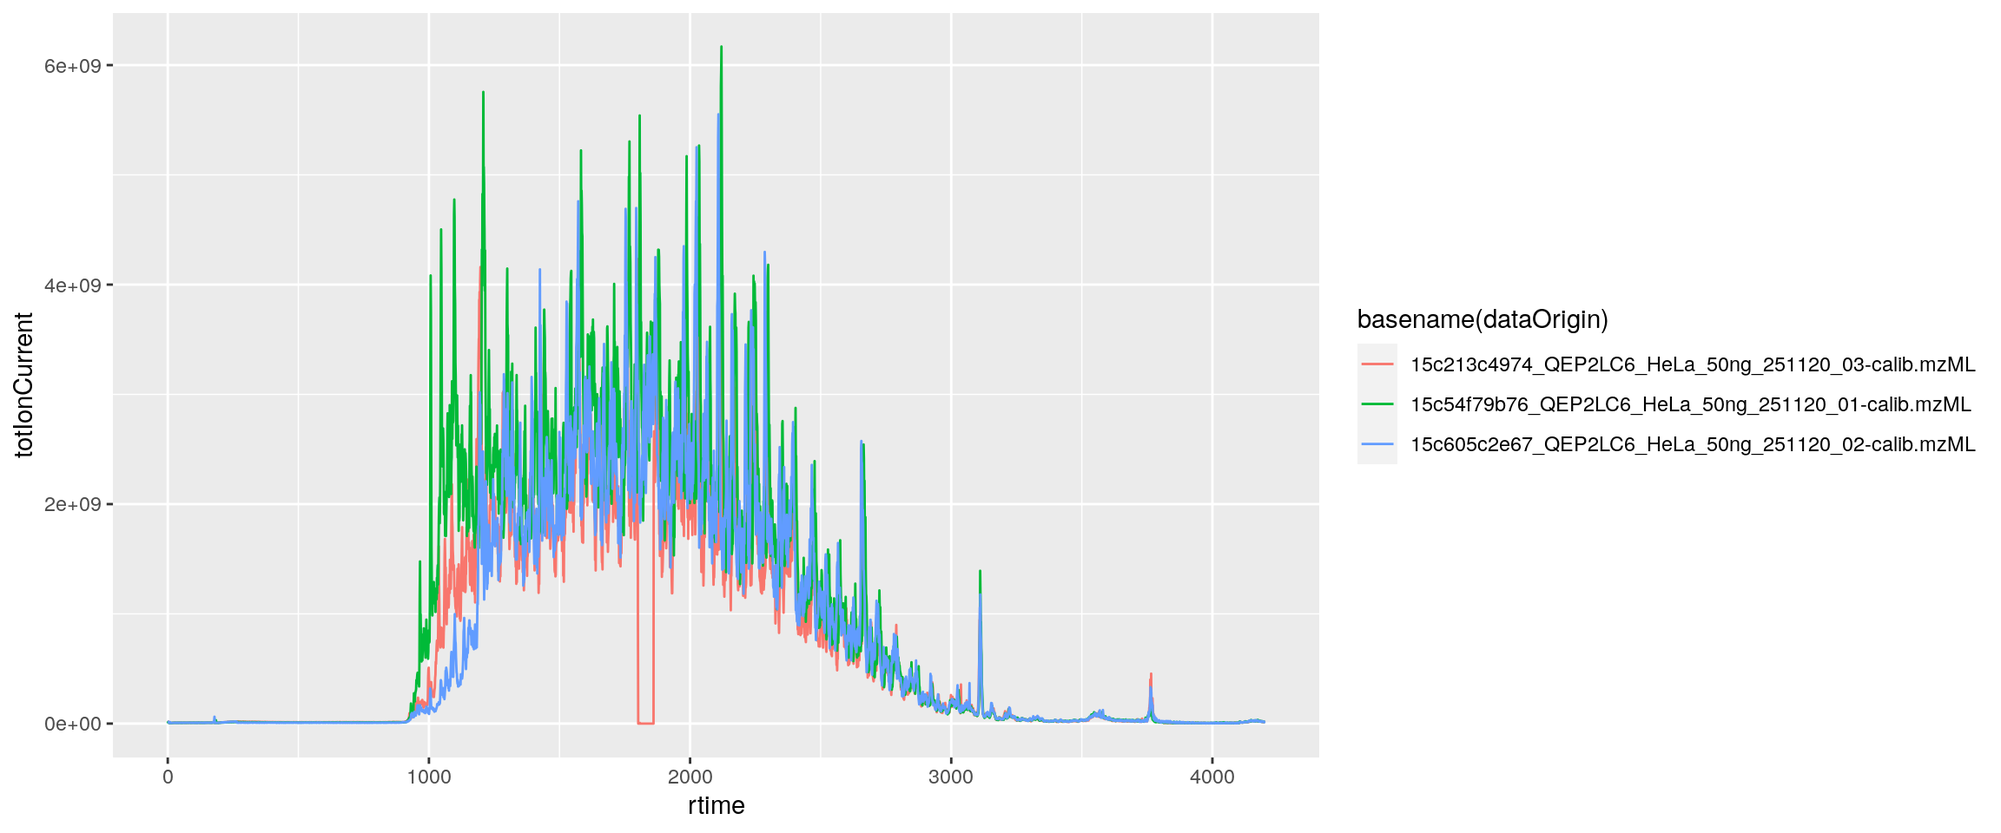
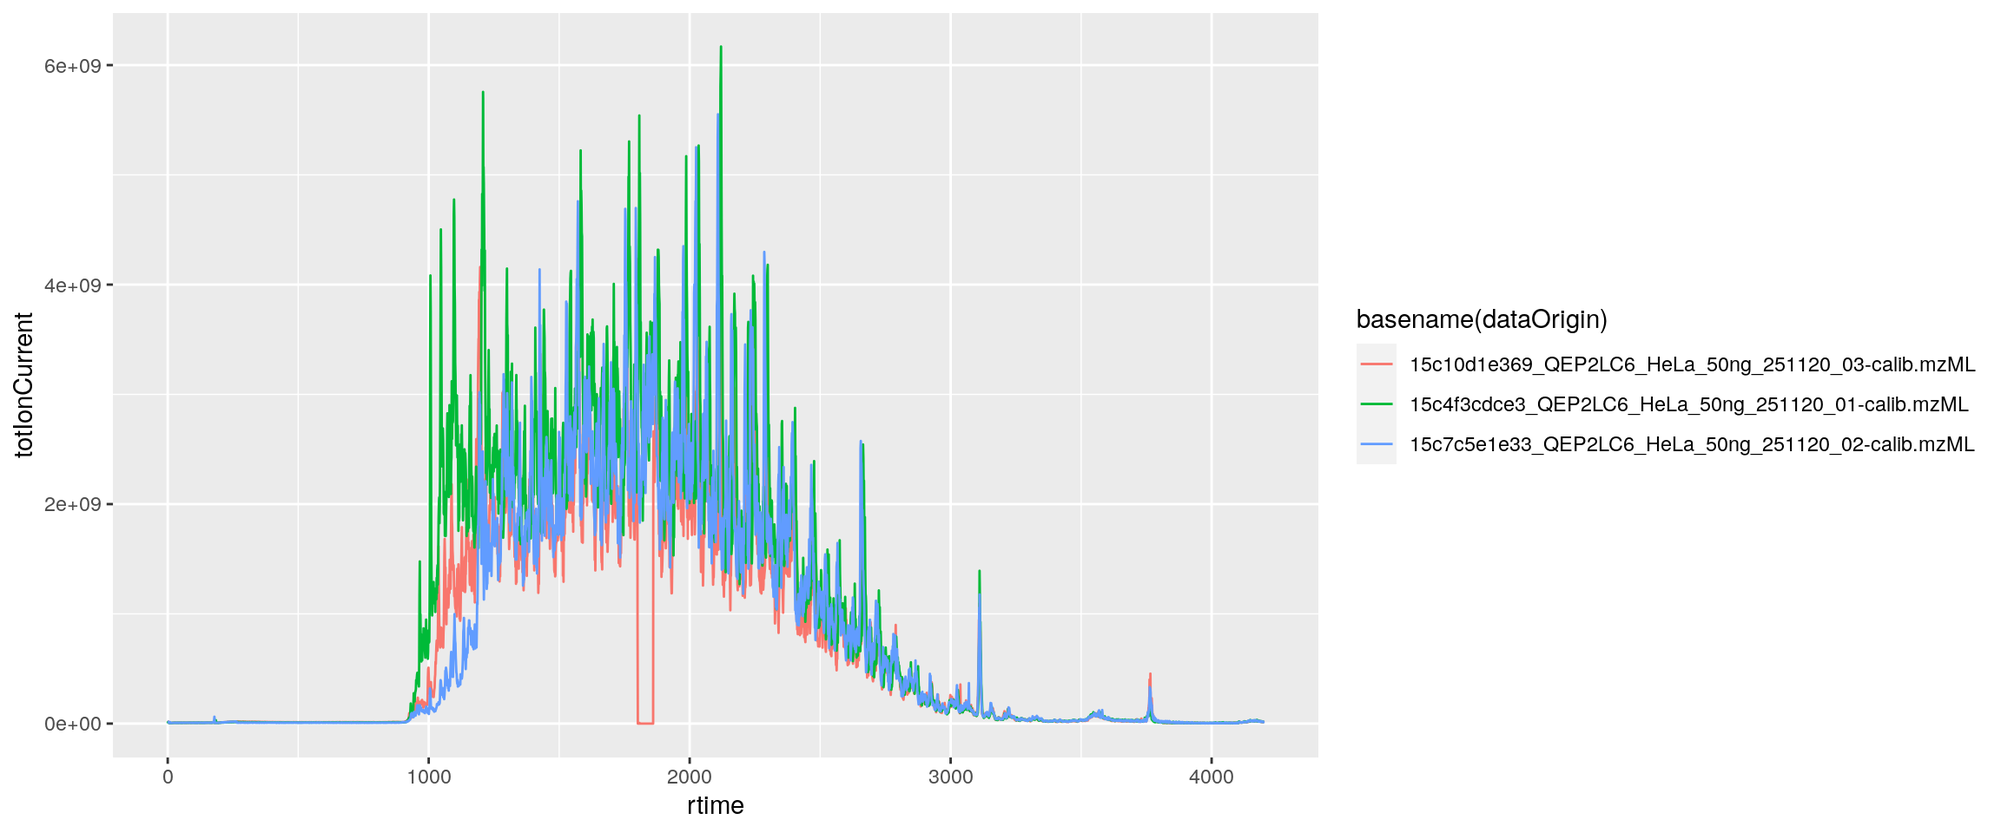
Deploying to gh-pages from @ js2264/R4MS@83e489c20091fc61f034502243b1299df74b7056 🚀

diff --git a/docs/devel/pages/20-id.html b/docs/devel/pages/20-id.html
@@ -709,7 +709,7 @@ Generating the <code>sp</code> object from scratch 👇
 <span><span class="co">##   ... 33 more variables/columns.</span></span>
 <span><span class="co">##  </span></span>
 <span><span class="co">##  file(s):</span></span>
-<span><span class="co">##  d17f90d691_TMT_Erwinia_1uLSike_Top10HCD_isol2_45stepped_60min_01-20141210.mzML</span></span></code><button title="Copy to Clipboard" class="code-copy-button"><i class="bi"></i></button></pre></div>
+<span><span class="co">##  d11fbf7e_TMT_Erwinia_1uLSike_Top10HCD_isol2_45stepped_60min_01-20141210.mzML</span></span></code><button title="Copy to Clipboard" class="code-copy-button"><i class="bi"></i></button></pre></div>
 </div>
 </div>
 </div>
@@ -1162,7 +1162,7 @@ Answer
 <span><span class="co">##   ... 68 more variables/columns.</span></span>
 <span><span class="co">##  </span></span>
 <span><span class="co">##  file(s):</span></span>
-<span><span class="co">##  d17f90d691_TMT_Erwinia_1uLSike_Top10HCD_isol2_45stepped_60min_01-20141210.mzML</span></span></code><button title="Copy to Clipboard" class="code-copy-button"><i class="bi"></i></button></pre></div>
+<span><span class="co">##  d11fbf7e_TMT_Erwinia_1uLSike_Top10HCD_isol2_45stepped_60min_01-20141210.mzML</span></span></code><button title="Copy to Clipboard" class="code-copy-button"><i class="bi"></i></button></pre></div>
 </div>
 </div>
 </div>
@@ -1334,9 +1334,9 @@ Answer
 <span><span class="co">##  Downloading QEP2LC6_HeLa_50ng_251120_01-calib.mzID.gz file.</span></span>
 <span><span class="co">##  Downloading QEP2LC6_HeLa_50ng_251120_02-calib.mzID.gz file.</span></span>
 <span><span class="co">##  Downloading QEP2LC6_HeLa_50ng_251120_03-calib.mzID.gz file.</span></span>
-<span><span class="co">##  [1] "/root/.cache/R/rpx/15c5733cbfc_QEP2LC6_HeLa_50ng_251120_01-calib.mzID.gz"</span></span>
-<span><span class="co">##  [2] "/root/.cache/R/rpx/15c55bc3e06_QEP2LC6_HeLa_50ng_251120_02-calib.mzID.gz"</span></span>
-<span><span class="co">##  [3] "/root/.cache/R/rpx/15c6c409123_QEP2LC6_HeLa_50ng_251120_03-calib.mzID.gz"</span></span>
+<span><span class="co">##  [1] "/root/.cache/R/rpx/15c54cb5110_QEP2LC6_HeLa_50ng_251120_01-calib.mzID.gz"</span></span>
+<span><span class="co">##  [2] "/root/.cache/R/rpx/15c16fe01de_QEP2LC6_HeLa_50ng_251120_02-calib.mzID.gz"</span></span>
+<span><span class="co">##  [3] "/root/.cache/R/rpx/15cac59a87_QEP2LC6_HeLa_50ng_251120_03-calib.mzID.gz"</span></span>
 <span><span class="op">(</span><span class="va">mzmls</span> <span class="op">&lt;-</span> <span class="fu"><a href="https://rdrr.io/pkg/rpx/man/PXDataset2.html">pxget</a></span><span class="op">(</span><span class="va">PXD022816</span>, <span class="fu"><a href="https://rdrr.io/r/base/grep.html">grep</a></span><span class="op">(</span><span class="st">"mzML"</span>, <span class="fu"><a href="https://rdrr.io/pkg/rpx/man/PXDataset2.html">pxfiles</a></span><span class="op">(</span><span class="va">PXD022816</span><span class="op">)</span><span class="op">)</span><span class="op">[</span><span class="fl">1</span><span class="op">:</span><span class="fl">3</span><span class="op">]</span><span class="op">)</span><span class="op">)</span></span>
 <span><span class="co">##  Project PXD022816 files (32):</span></span>
 <span><span class="co">##   [local]  QEP2LC6_HeLa_50ng_251120_01-calib.mzID.gz</span></span>
@@ -1353,9 +1353,9 @@ Answer
 <span><span class="co">##  Downloading QEP2LC6_HeLa_50ng_251120_01-calib.mzML file.</span></span>
 <span><span class="co">##  Downloading QEP2LC6_HeLa_50ng_251120_02-calib.mzML file.</span></span>
 <span><span class="co">##  Downloading QEP2LC6_HeLa_50ng_251120_03-calib.mzML file.</span></span>
-<span><span class="co">##  [1] "/root/.cache/R/rpx/15c54f79b76_QEP2LC6_HeLa_50ng_251120_01-calib.mzML"</span></span>
-<span><span class="co">##  [2] "/root/.cache/R/rpx/15c605c2e67_QEP2LC6_HeLa_50ng_251120_02-calib.mzML"</span></span>
-<span><span class="co">##  [3] "/root/.cache/R/rpx/15c213c4974_QEP2LC6_HeLa_50ng_251120_03-calib.mzML"</span></span></code><button title="Copy to Clipboard" class="code-copy-button"><i class="bi"></i></button></pre></div>
+<span><span class="co">##  [1] "/root/.cache/R/rpx/15c4f3cdce3_QEP2LC6_HeLa_50ng_251120_01-calib.mzML"</span></span>
+<span><span class="co">##  [2] "/root/.cache/R/rpx/15c7c5e1e33_QEP2LC6_HeLa_50ng_251120_02-calib.mzML"</span></span>
+<span><span class="co">##  [3] "/root/.cache/R/rpx/15c10d1e369_QEP2LC6_HeLa_50ng_251120_03-calib.mzML"</span></span></code><button title="Copy to Clipboard" class="code-copy-button"><i class="bi"></i></button></pre></div>
 </div>
 </div>
 </div>
@@ -1407,18 +1407,18 @@ Answer
 <span><span class="co">##   ... 33 more variables/columns.</span></span>
 <span><span class="co">##  </span></span>
 <span><span class="co">##  file(s):</span></span>
-<span><span class="co">##  15c54f79b76_QEP2LC6_HeLa_50ng_251120_01-calib.mzML</span></span>
-<span><span class="co">##  15c605c2e67_QEP2LC6_HeLa_50ng_251120_02-calib.mzML</span></span>
-<span><span class="co">##  15c213c4974_QEP2LC6_HeLa_50ng_251120_03-calib.mzML</span></span>
+<span><span class="co">##  15c4f3cdce3_QEP2LC6_HeLa_50ng_251120_01-calib.mzML</span></span>
+<span><span class="co">##  15c7c5e1e33_QEP2LC6_HeLa_50ng_251120_02-calib.mzML</span></span>
+<span><span class="co">##  15c10d1e369_QEP2LC6_HeLa_50ng_251120_03-calib.mzML</span></span>
 <span></span>
 <span><span class="co">## number of spectra per file</span></span>
 <span><span class="fu"><a href="https://rdrr.io/r/base/table.html">table</a></span><span class="op">(</span><span class="fu"><a href="https://rdrr.io/r/base/basename.html">basename</a></span><span class="op">(</span><span class="va">sp</span><span class="op">$</span><span class="va">dataOrigin</span><span class="op">)</span><span class="op">)</span></span>
 <span><span class="co">##  </span></span>
-<span><span class="co">##  15c213c4974_QEP2LC6_HeLa_50ng_251120_03-calib.mzML </span></span>
+<span><span class="co">##  15c10d1e369_QEP2LC6_HeLa_50ng_251120_03-calib.mzML </span></span>
 <span><span class="co">##                                               28740 </span></span>
-<span><span class="co">##  15c54f79b76_QEP2LC6_HeLa_50ng_251120_01-calib.mzML </span></span>
+<span><span class="co">##  15c4f3cdce3_QEP2LC6_HeLa_50ng_251120_01-calib.mzML </span></span>
 <span><span class="co">##                                               29575 </span></span>
-<span><span class="co">##  15c605c2e67_QEP2LC6_HeLa_50ng_251120_02-calib.mzML </span></span>
+<span><span class="co">##  15c7c5e1e33_QEP2LC6_HeLa_50ng_251120_02-calib.mzML </span></span>
 <span><span class="co">##                                               29332</span></span>
 <span></span>
 <span><span class="co">## all levels are centroided</span></span>
@@ -1455,11 +1455,11 @@ Answer
 <span><span class="co">## Number of PSMs per acquisition</span></span>
 <span><span class="fu"><a href="https://rdrr.io/r/base/table.html">table</a></span><span class="op">(</span><span class="va">id</span><span class="op">$</span><span class="va">idFile</span><span class="op">)</span></span>
 <span><span class="co">##  </span></span>
-<span><span class="co">##  15c55bc3e06_QEP2LC6_HeLa_50ng_251120_02-calib.mzID.gz </span></span>
+<span><span class="co">##  15c16fe01de_QEP2LC6_HeLa_50ng_251120_02-calib.mzID.gz </span></span>
 <span><span class="co">##                                                  25083 </span></span>
-<span><span class="co">##  15c5733cbfc_QEP2LC6_HeLa_50ng_251120_01-calib.mzID.gz </span></span>
+<span><span class="co">##  15c54cb5110_QEP2LC6_HeLa_50ng_251120_01-calib.mzID.gz </span></span>
 <span><span class="co">##                                                  25231 </span></span>
-<span><span class="co">##  15c6c409123_QEP2LC6_HeLa_50ng_251120_03-calib.mzID.gz </span></span>
+<span><span class="co">##   15cac59a87_QEP2LC6_HeLa_50ng_251120_03-calib.mzID.gz </span></span>
 <span><span class="co">##                                                  24436</span></span>
 <span></span>
 <span><span class="fu">tidyr</span><span class="fu">::</span><span class="fu"><a href="https://tibble.tidyverse.org/reference/as_tibble.html">as_tibble</a></span><span class="op">(</span><span class="va">id</span><span class="op">)</span> <span class="op">|&gt;</span> </span>
@@ -1605,7 +1605,7 @@ Answer
 <span><span class="co">##  77          2   3563.78     26314</span></span>
 <span><span class="co">##   ... 65 more variables/columns.</span></span>
 <span><span class="co">##  Processing:</span></span>
-<span><span class="co">##   Switch backend from MsBackendMzR to MsBackendDataFrame [Tue Nov 14 17:00:19 2023]</span></span>
+<span><span class="co">##   Switch backend from MsBackendMzR to MsBackendDataFrame [Tue Nov 14 18:48:23 2023]</span></span>
 <span></span>
 <span><span class="va">cmat</span> <span class="op">&lt;-</span> <span class="fu"><a href="https://rdrr.io/pkg/ProtGenerics/man/protgenerics.html">compareSpectra</a></span><span class="op">(</span><span class="va">sp_O43175</span><span class="op">)</span></span>
 <span><span class="fu"><a href="https://rdrr.io/r/base/colnames.html">rownames</a></span><span class="op">(</span><span class="va">cmat</span><span class="op">)</span> <span class="op">&lt;-</span></span>

diff --git a/docs/devel/pages/raw-ms-data.html b/docs/devel/pages/raw-ms-data.html
@@ -307,7 +307,7 @@ div.csl-indent {
 <span><span class="va">mzf</span> <span class="op">&lt;-</span> <span class="fu"><a href="https://rdrr.io/pkg/rpx/man/PXDataset2.html">pxget</a></span><span class="op">(</span><span class="va">px</span>, <span class="va">fn</span><span class="op">)</span></span>
 <span><span class="co">##  Loading TMT_Erwinia_1uLSike_Top10HCD_isol2_45stepped_60min_01-20141210.mzML from cache.</span></span>
 <span><span class="va">mzf</span></span>
-<span><span class="co">##  [1] "/root/.cache/R/rpx/d17f90d691_TMT_Erwinia_1uLSike_Top10HCD_isol2_45stepped_60min_01-20141210.mzML"</span></span>
+<span><span class="co">##  [1] "/root/.cache/R/rpx/d11fbf7e_TMT_Erwinia_1uLSike_Top10HCD_isol2_45stepped_60min_01-20141210.mzML"</span></span>
 <span><span class="va">sp</span> <span class="op">&lt;-</span> <span class="fu"><a href="https://rdrr.io/pkg/Spectra/man/Spectra.html">Spectra</a></span><span class="op">(</span><span class="va">mzf</span><span class="op">)</span></span>
 <span><span class="va">sp</span></span>
 <span><span class="co">##  MSn data (Spectra) with 7534 spectra in a MsBackendMzR backend:</span></span>
@@ -327,7 +327,7 @@ div.csl-indent {
 <span><span class="co">##   ... 33 more variables/columns.</span></span>
 <span><span class="co">##  </span></span>
 <span><span class="co">##  file(s):</span></span>
-<span><span class="co">##  d17f90d691_TMT_Erwinia_1uLSike_Top10HCD_isol2_45stepped_60min_01-20141210.mzML</span></span></code><button title="Copy to Clipboard" class="code-copy-button"><i class="bi"></i></button></pre></div>
+<span><span class="co">##  d11fbf7e_TMT_Erwinia_1uLSike_Top10HCD_isol2_45stepped_60min_01-20141210.mzML</span></span></code><button title="Copy to Clipboard" class="code-copy-button"><i class="bi"></i></button></pre></div>
 </div>
 <section id="exercise-1" class="level4 unnumbered"><h4 class="unnumbered anchored" data-anchor-id="exercise-1">Exercise</h4>
 <ul>
@@ -460,7 +460,7 @@ div.csl-indent {
 <span><span class="co">##  1862         1   259.752       931</span></span>
 <span><span class="co">##   ... 33 more variables/columns.</span></span>
 <span><span class="co">##  Processing:</span></span>
-<span><span class="co">##   Switch backend from MsBackendMzR to MsBackendMemory [Tue Nov 14 16:58:38 2023]</span></span></code><button title="Copy to Clipboard" class="code-copy-button"><i class="bi"></i></button></pre></div>
+<span><span class="co">##   Switch backend from MsBackendMzR to MsBackendMemory [Tue Nov 14 18:46:07 2023]</span></span></code><button title="Copy to Clipboard" class="code-copy-button"><i class="bi"></i></button></pre></div>
 </div>
 <ul>
 <li>
@@ -490,7 +490,7 @@ div.csl-indent {
 <span><span class="co">##   20171016_POOL_POS_1_105-134.h5</span></span>
 <span><span class="co">##   20171016_POOL_POS_3_105-134.h5</span></span>
 <span><span class="co">##  Processing:</span></span>
-<span><span class="co">##   Switch backend from MsBackendMzR to MsBackendHdf5Peaks [Tue Nov 14 16:58:44 2023]</span></span>
+<span><span class="co">##   Switch backend from MsBackendMzR to MsBackendHdf5Peaks [Tue Nov 14 18:46:12 2023]</span></span>
 <span><span class="fu"><a href="https://rdrr.io/r/base/table.html">table</a></span><span class="op">(</span><span class="va">sp_hdf5</span><span class="op">$</span><span class="va">dataOrigin</span><span class="op">)</span></span>
 <span><span class="co">##  </span></span>
 <span><span class="co">##  /usr/local/lib/R/site-library/msdata/sciex/20171016_POOL_POS_1_105-134.mzML </span></span>
@@ -499,9 +499,9 @@ div.csl-indent {
 <span><span class="co">##                                                                          931</span></span>
 <span><span class="fu"><a href="https://rdrr.io/r/base/table.html">table</a></span><span class="op">(</span><span class="va">sp_hdf5</span><span class="op">$</span><span class="va">dataStorage</span><span class="op">)</span></span>
 <span><span class="co">##  </span></span>
-<span><span class="co">##  /tmp/Rtmpxn44cX/20171016_POOL_POS_1_105-134.h5 </span></span>
+<span><span class="co">##  /tmp/Rtmp6GEFJc/20171016_POOL_POS_1_105-134.h5 </span></span>
 <span><span class="co">##                                             931 </span></span>
-<span><span class="co">##  /tmp/Rtmpxn44cX/20171016_POOL_POS_3_105-134.h5 </span></span>
+<span><span class="co">##  /tmp/Rtmp6GEFJc/20171016_POOL_POS_3_105-134.h5 </span></span>
 <span><span class="co">##                                             931</span></span></code><button title="Copy to Clipboard" class="code-copy-button"><i class="bi"></i></button></pre></div>
 </div>
 <p>All of the above mentioned backends support changing all of their their spectra variables, <strong>except</strong> the <code>MsBackendMzR</code> that does not support changing m/z or intensity values for the mass peaks.</p>
@@ -591,9 +591,9 @@ Answer
 <span><span class="co">##   ... 34 more variables/columns.</span></span>
 <span><span class="co">##  </span></span>
 <span><span class="co">##  file(s):</span></span>
-<span><span class="co">##  d17f90d691_TMT_Erwinia_1uLSike_Top10HCD_isol2_45stepped_60min_01-20141210.mzML</span></span>
+<span><span class="co">##  d11fbf7e_TMT_Erwinia_1uLSike_Top10HCD_isol2_45stepped_60min_01-20141210.mzML</span></span>
 <span><span class="co">##  Processing:</span></span>
-<span><span class="co">##   Filter: select parent/children scans for 2807 [Tue Nov 14 16:58:44 2023]</span></span></code><button title="Copy to Clipboard" class="code-copy-button"><i class="bi"></i></button></pre></div>
+<span><span class="co">##   Filter: select parent/children scans for 2807 [Tue Nov 14 18:46:12 2023]</span></span></code><button title="Copy to Clipboard" class="code-copy-button"><i class="bi"></i></button></pre></div>
 </div>
 </div>
 </div>
@@ -863,8 +863,8 @@ Answer
 <span><span class="co">##  file(s):</span></span>
 <span><span class="co">##  20171016_POOL_POS_3_105-134.mzML</span></span>
 <span><span class="co">##  Processing:</span></span>
-<span><span class="co">##   Filter: select data origin(s) /usr/local/lib/R/site-library/msdata/sciex/20171016_POOL_POS_3_105-134.mzML [Tue Nov 14 16:58:45 2023]</span></span>
-<span><span class="co">##   Filter: select retention time [175..189] on MS level(s) 1 [Tue Nov 14 16:58:45 2023]</span></span></code><button title="Copy to Clipboard" class="code-copy-button"><i class="bi"></i></button></pre></div>
+<span><span class="co">##   Filter: select data origin(s) /usr/local/lib/R/site-library/msdata/sciex/20171016_POOL_POS_3_105-134.mzML [Tue Nov 14 18:46:13 2023]</span></span>
+<span><span class="co">##   Filter: select retention time [175..189] on MS level(s) 1 [Tue Nov 14 18:46:13 2023]</span></span></code><button title="Copy to Clipboard" class="code-copy-button"><i class="bi"></i></button></pre></div>
 </div>
 </div>
 </div>
@@ -936,7 +936,7 @@ Answer
 <span><span class="co">##  20171016_POOL_POS_3_105-134.mzML</span></span>
 <span><span class="co">##  Lazy evaluation queue: 1 processing step(s)</span></span>
 <span><span class="co">##  Processing:</span></span>
-<span><span class="co">##   Remove peaks with intensities outside [10, Inf] in spectra of MS level(s) 1. [Tue Nov 14 16:58:46 2023]</span></span>
+<span><span class="co">##   Remove peaks with intensities outside [10, Inf] in spectra of MS level(s) 1. [Tue Nov 14 18:46:14 2023]</span></span>
 <span><span class="fu"><a href="https://rdrr.io/r/base/Extremes.html">min</a></span><span class="op">(</span><span class="fu"><a href="https://rdrr.io/pkg/ProtGenerics/man/protgenerics.html">intensity</a></span><span class="op">(</span><span class="va">sp_sciex</span><span class="op">[</span><span class="fl">1</span><span class="op">]</span><span class="op">)</span><span class="op">)</span></span>
 <span><span class="co">##  [1] 412</span></span>
 <span><span class="va">sp_sciex</span><span class="op">@</span><span class="va">processingQueue</span></span>

diff --git a/docs/devel/index.html b/docs/devel/index.html
@@ -277,8 +277,7 @@ div.csl-indent {
 <span><span class="fu">BiocManager</span><span class="fu">::</span><span class="fu"><a href="https://bioconductor.github.io/BiocManager/reference/install.html">install</a></span><span class="op">(</span><span class="st">"PSMatch"</span><span class="op">)</span></span>
 <span><span class="fu">BiocManager</span><span class="fu">::</span><span class="fu"><a href="https://bioconductor.github.io/BiocManager/reference/install.html">install</a></span><span class="op">(</span><span class="st">"pheatmap"</span><span class="op">)</span></span>
 <span><span class="fu">BiocManager</span><span class="fu">::</span><span class="fu"><a href="https://bioconductor.github.io/BiocManager/reference/install.html">install</a></span><span class="op">(</span><span class="st">"limma"</span><span class="op">)</span></span>
-<span><span class="fu">BiocManager</span><span class="fu">::</span><span class="fu"><a href="https://bioconductor.github.io/BiocManager/reference/install.html">install</a></span><span class="op">(</span><span class="st">"MSnID"</span><span class="op">)</span></span>
-<span><span class="fu">BiocManager</span><span class="fu">::</span><span class="fu"><a href="https://bioconductor.github.io/BiocManager/reference/install.html">install</a></span><span class="op">(</span><span class="st">"RforMassSpectrometry/SpectraVis"</span><span class="op">)</span></span></code><button title="Copy to Clipboard" class="code-copy-button"><i class="bi"></i></button></pre></div>
+<span><span class="fu">BiocManager</span><span class="fu">::</span><span class="fu"><a href="https://bioconductor.github.io/BiocManager/reference/install.html">install</a></span><span class="op">(</span><span class="st">"MSnID"</span><span class="op">)</span></span></code><button title="Copy to Clipboard" class="code-copy-button"><i class="bi"></i></button></pre></div>
 </div>
 <p>Follow the instructions in <a href="https://gist.github.com/lgatto/b1875458ed4e478ff6e87ce3b346352e">this script</a> to install the packages and download some of the data used in the following chapters. All software versions used to generate this document are recoded at the end of the book in @ref(sec-si).</p>
 </section><section id="acknowledgments" class="level2 unnumbered"><h2 class="unnumbered anchored" data-anchor-id="acknowledgments">Acknowledgments</h2>
@@ -527,7 +526,6 @@ Click to expand 👇
 <span><span class="co">##   modelr                   0.1.11     2023-03-22 [2] CRAN (R 4.4.0)</span></span>
 <span><span class="co">##   MsCoreUtils            * 1.15.1     2023-11-03 [2] Bioconductor</span></span>
 <span><span class="co">##   msdata                   0.43.0     2023-10-26 [2] Bioconductor</span></span>
-<span><span class="co">##   msmbstyle                0.0.22     2023-11-14 [2] Github (grimbough/msmbstyle@322f487)</span></span>
 <span><span class="co">##   msmsEDA                  1.41.0     2023-11-03 [2] Bioconductor</span></span>
 <span><span class="co">##   msmsTests                1.41.0     2023-11-03 [2] Bioconductor</span></span>
 <span><span class="co">##   MSnbase                  2.29.1     2023-11-06 [2] Bioconductor</span></span>
@@ -628,7 +626,6 @@ Click to expand 👇
 <span><span class="co">##   SparseM                  1.81       2021-02-18 [2] CRAN (R 4.4.0)</span></span>
 <span><span class="co">##   spatial                  7.3-17     2023-07-20 [3] CRAN (R 4.4.0)</span></span>
 <span><span class="co">##   Spectra                * 1.13.0     2023-11-03 [2] Bioconductor</span></span>
-<span><span class="co">##   SpectraVis               0.3.0      2023-11-14 [2] Github (RforMassSpectrometry/SpectraVis@bbecad1)</span></span>
 <span><span class="co">##   splines                  4.4.0      2023-11-09 [3] local</span></span>
 <span><span class="co">##   statmod                  1.5.0      2023-01-06 [2] CRAN (R 4.4.0)</span></span>
 <span><span class="co">##   stats                  * 4.4.0      2023-11-09 [3] local</span></span>
@@ -652,7 +649,6 @@ Click to expand 👇
 <span><span class="co">##   tinytex                  0.48       2023-10-13 [2] CRAN (R 4.4.0)</span></span>
 <span><span class="co">##   tokenizers               0.3.0      2022-12-22 [2] CRAN (R 4.4.0)</span></span>
 <span><span class="co">##   tools                    4.4.0      2023-11-09 [3] local</span></span>
-<span><span class="co">##   tufte                    0.13       2023-06-22 [2] CRAN (R 4.4.0)</span></span>
 <span><span class="co">##   tzdb                     0.4.0      2023-05-12 [2] CRAN (R 4.4.0)</span></span>
 <span><span class="co">##   urlchecker               1.0.1      2021-11-30 [2] CRAN (R 4.4.0)</span></span>
 <span><span class="co">##   usethis                  2.2.2      2023-07-06 [2] CRAN (R 4.4.0)</span></span>
@@ -678,7 +674,7 @@ Click to expand 👇
 <span><span class="co">##   zip                      2.3.0      2023-04-17 [2] CRAN (R 4.4.0)</span></span>
 <span><span class="co">##   zlibbioc                 1.49.0     2023-10-24 [2] Bioconductor</span></span>
 <span><span class="co">##  </span></span>
-<span><span class="co">##   [1] /tmp/Rtmplow2rn/Rinstb25729da5</span></span>
+<span><span class="co">##   [1] /tmp/RtmpWdzVTX/Rinstb21e9149e</span></span>
 <span><span class="co">##   [2] /usr/local/lib/R/site-library</span></span>
 <span><span class="co">##   [3] /usr/local/lib/R/library</span></span>
 <span><span class="co">##  </span></span>

diff --git a/docs/devel/pages/introduction.html b/docs/devel/pages/introduction.html
@@ -322,7 +322,7 @@ pre > code.sourceCode > span > a:first-child::before { text-decoration: underlin
 <span><span class="va">mzf</span> <span class="op">&lt;-</span> <span class="fu"><a href="https://rdrr.io/pkg/rpx/man/PXDataset2.html">pxget</a></span><span class="op">(</span><span class="va">px</span>, <span class="va">fn</span><span class="op">)</span></span>
 <span><span class="co">##  Downloading TMT_Erwinia_1uLSike_Top10HCD_isol2_45stepped_60min_01-20141210.mzML file.</span></span>
 <span><span class="va">mzf</span></span>
-<span><span class="co">##  [1] "/root/.cache/R/rpx/d17f90d691_TMT_Erwinia_1uLSike_Top10HCD_isol2_45stepped_60min_01-20141210.mzML"</span></span></code><button title="Copy to Clipboard" class="code-copy-button"><i class="bi"></i></button></pre></div>
+<span><span class="co">##  [1] "/root/.cache/R/rpx/d11fbf7e_TMT_Erwinia_1uLSike_Top10HCD_isol2_45stepped_60min_01-20141210.mzML"</span></span></code><button title="Copy to Clipboard" class="code-copy-button"><i class="bi"></i></button></pre></div>
 </div>
 </section><section id="data-packages" class="level3" data-number="1.2.2"><h3 data-number="1.2.2" class="anchored" data-anchor-id="data-packages">
 <span class="header-section-number">1.2.2</span> Data packages</h3>
